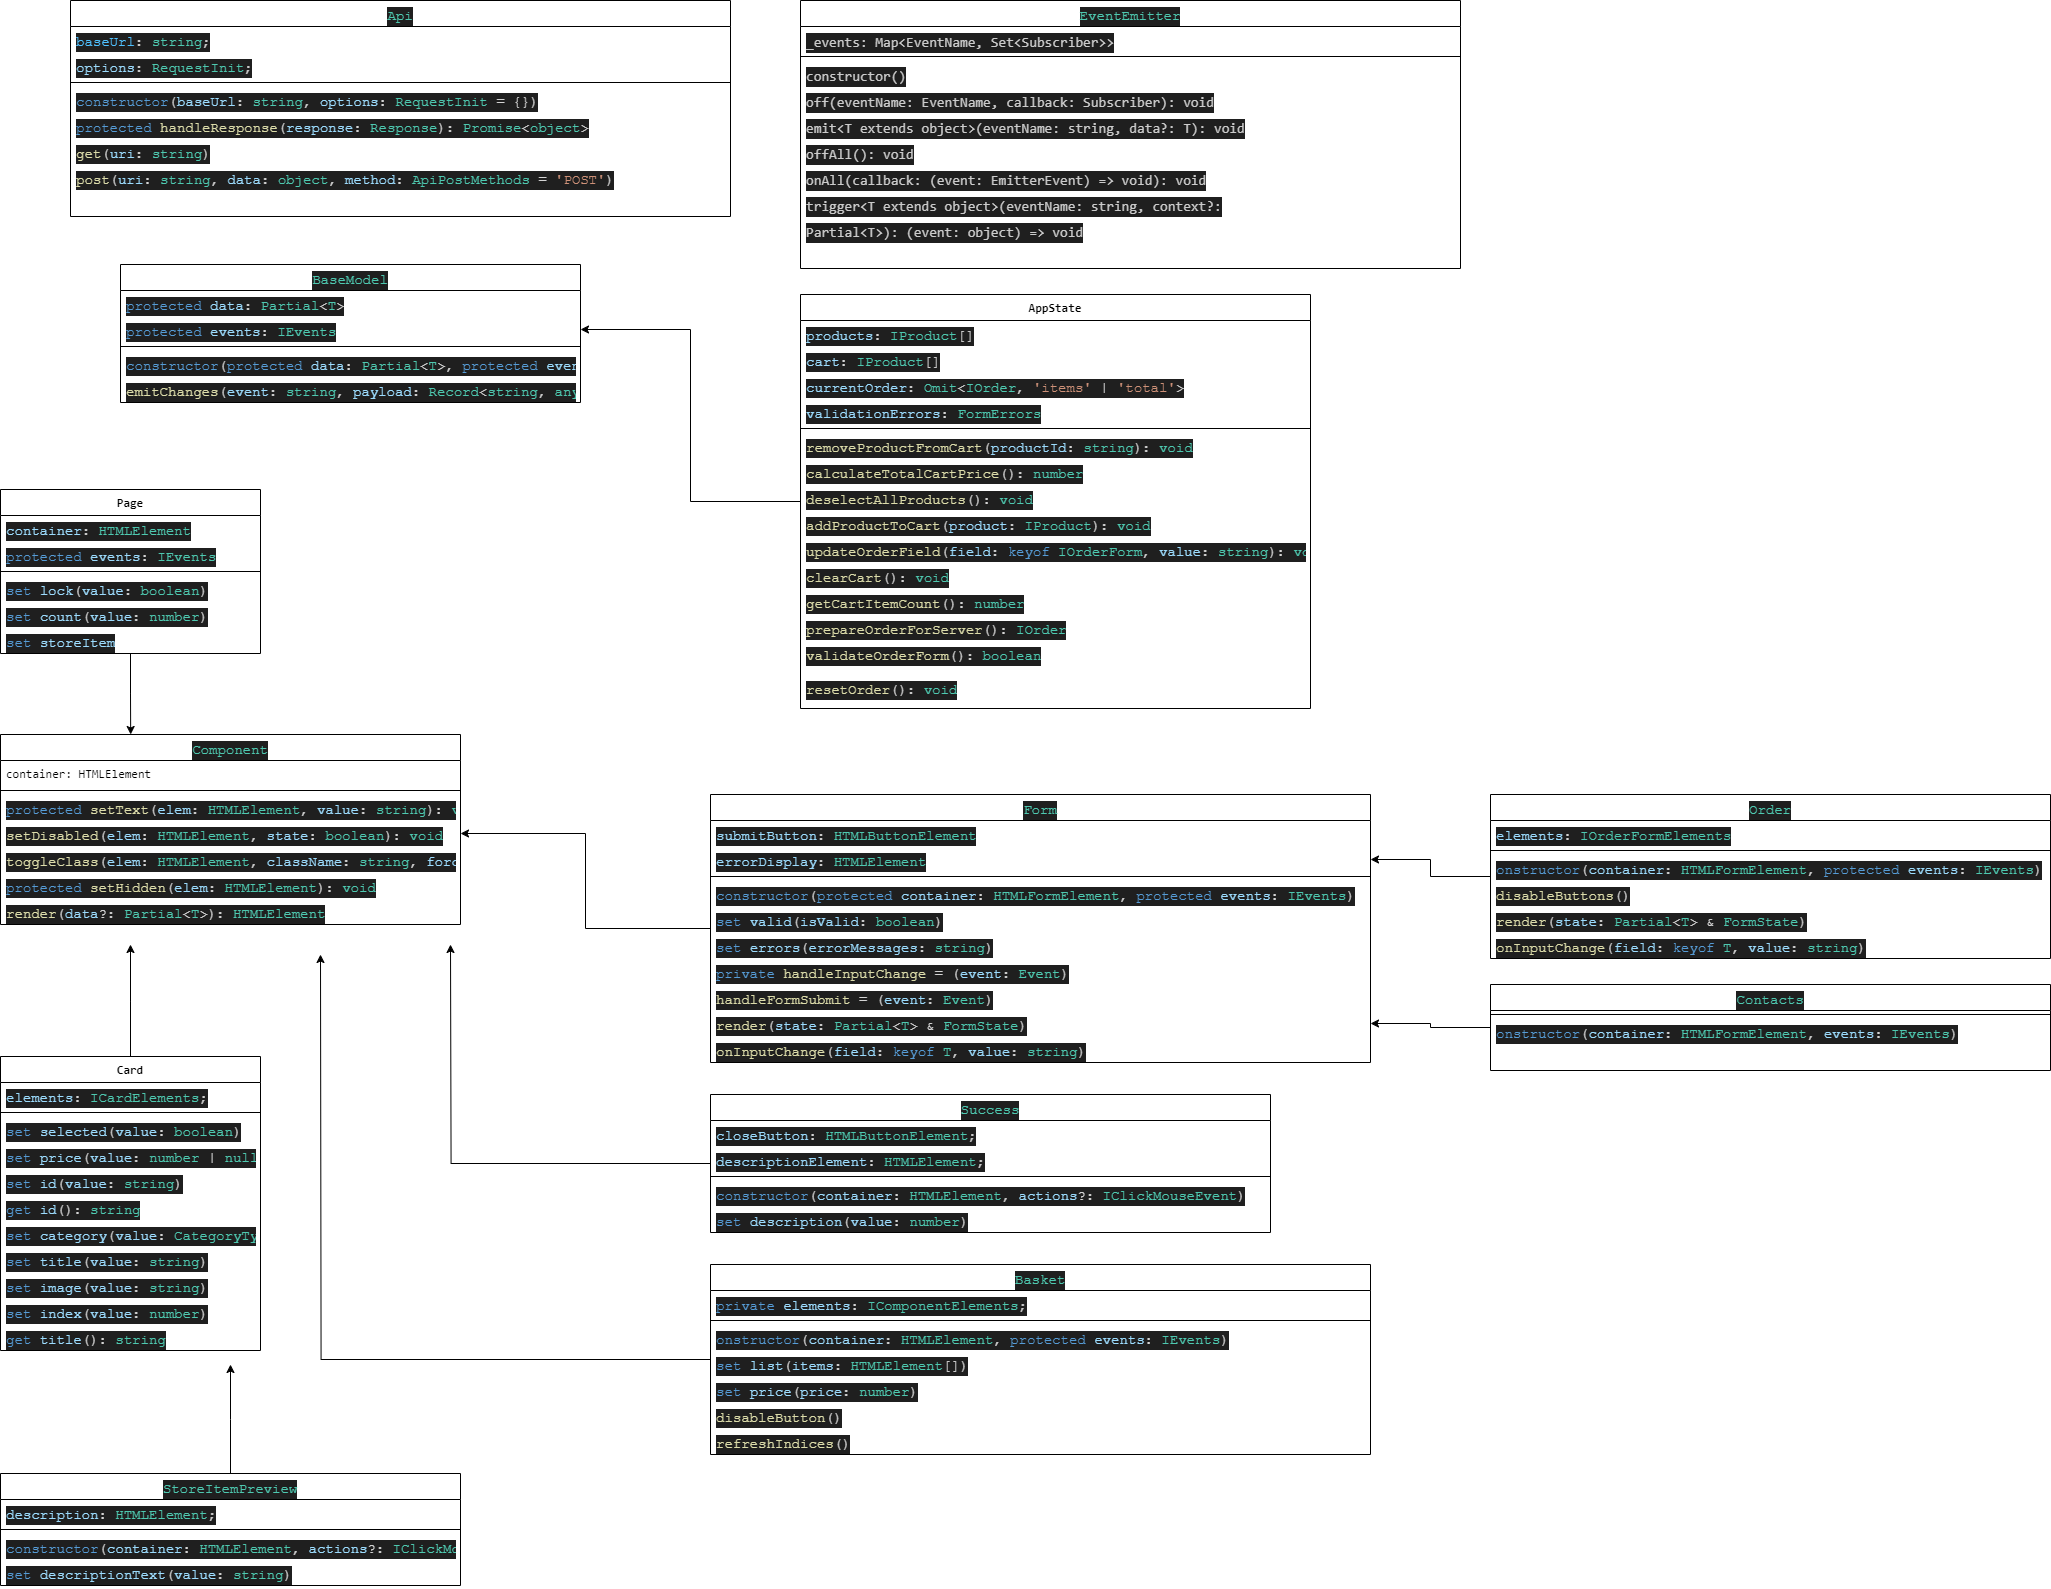
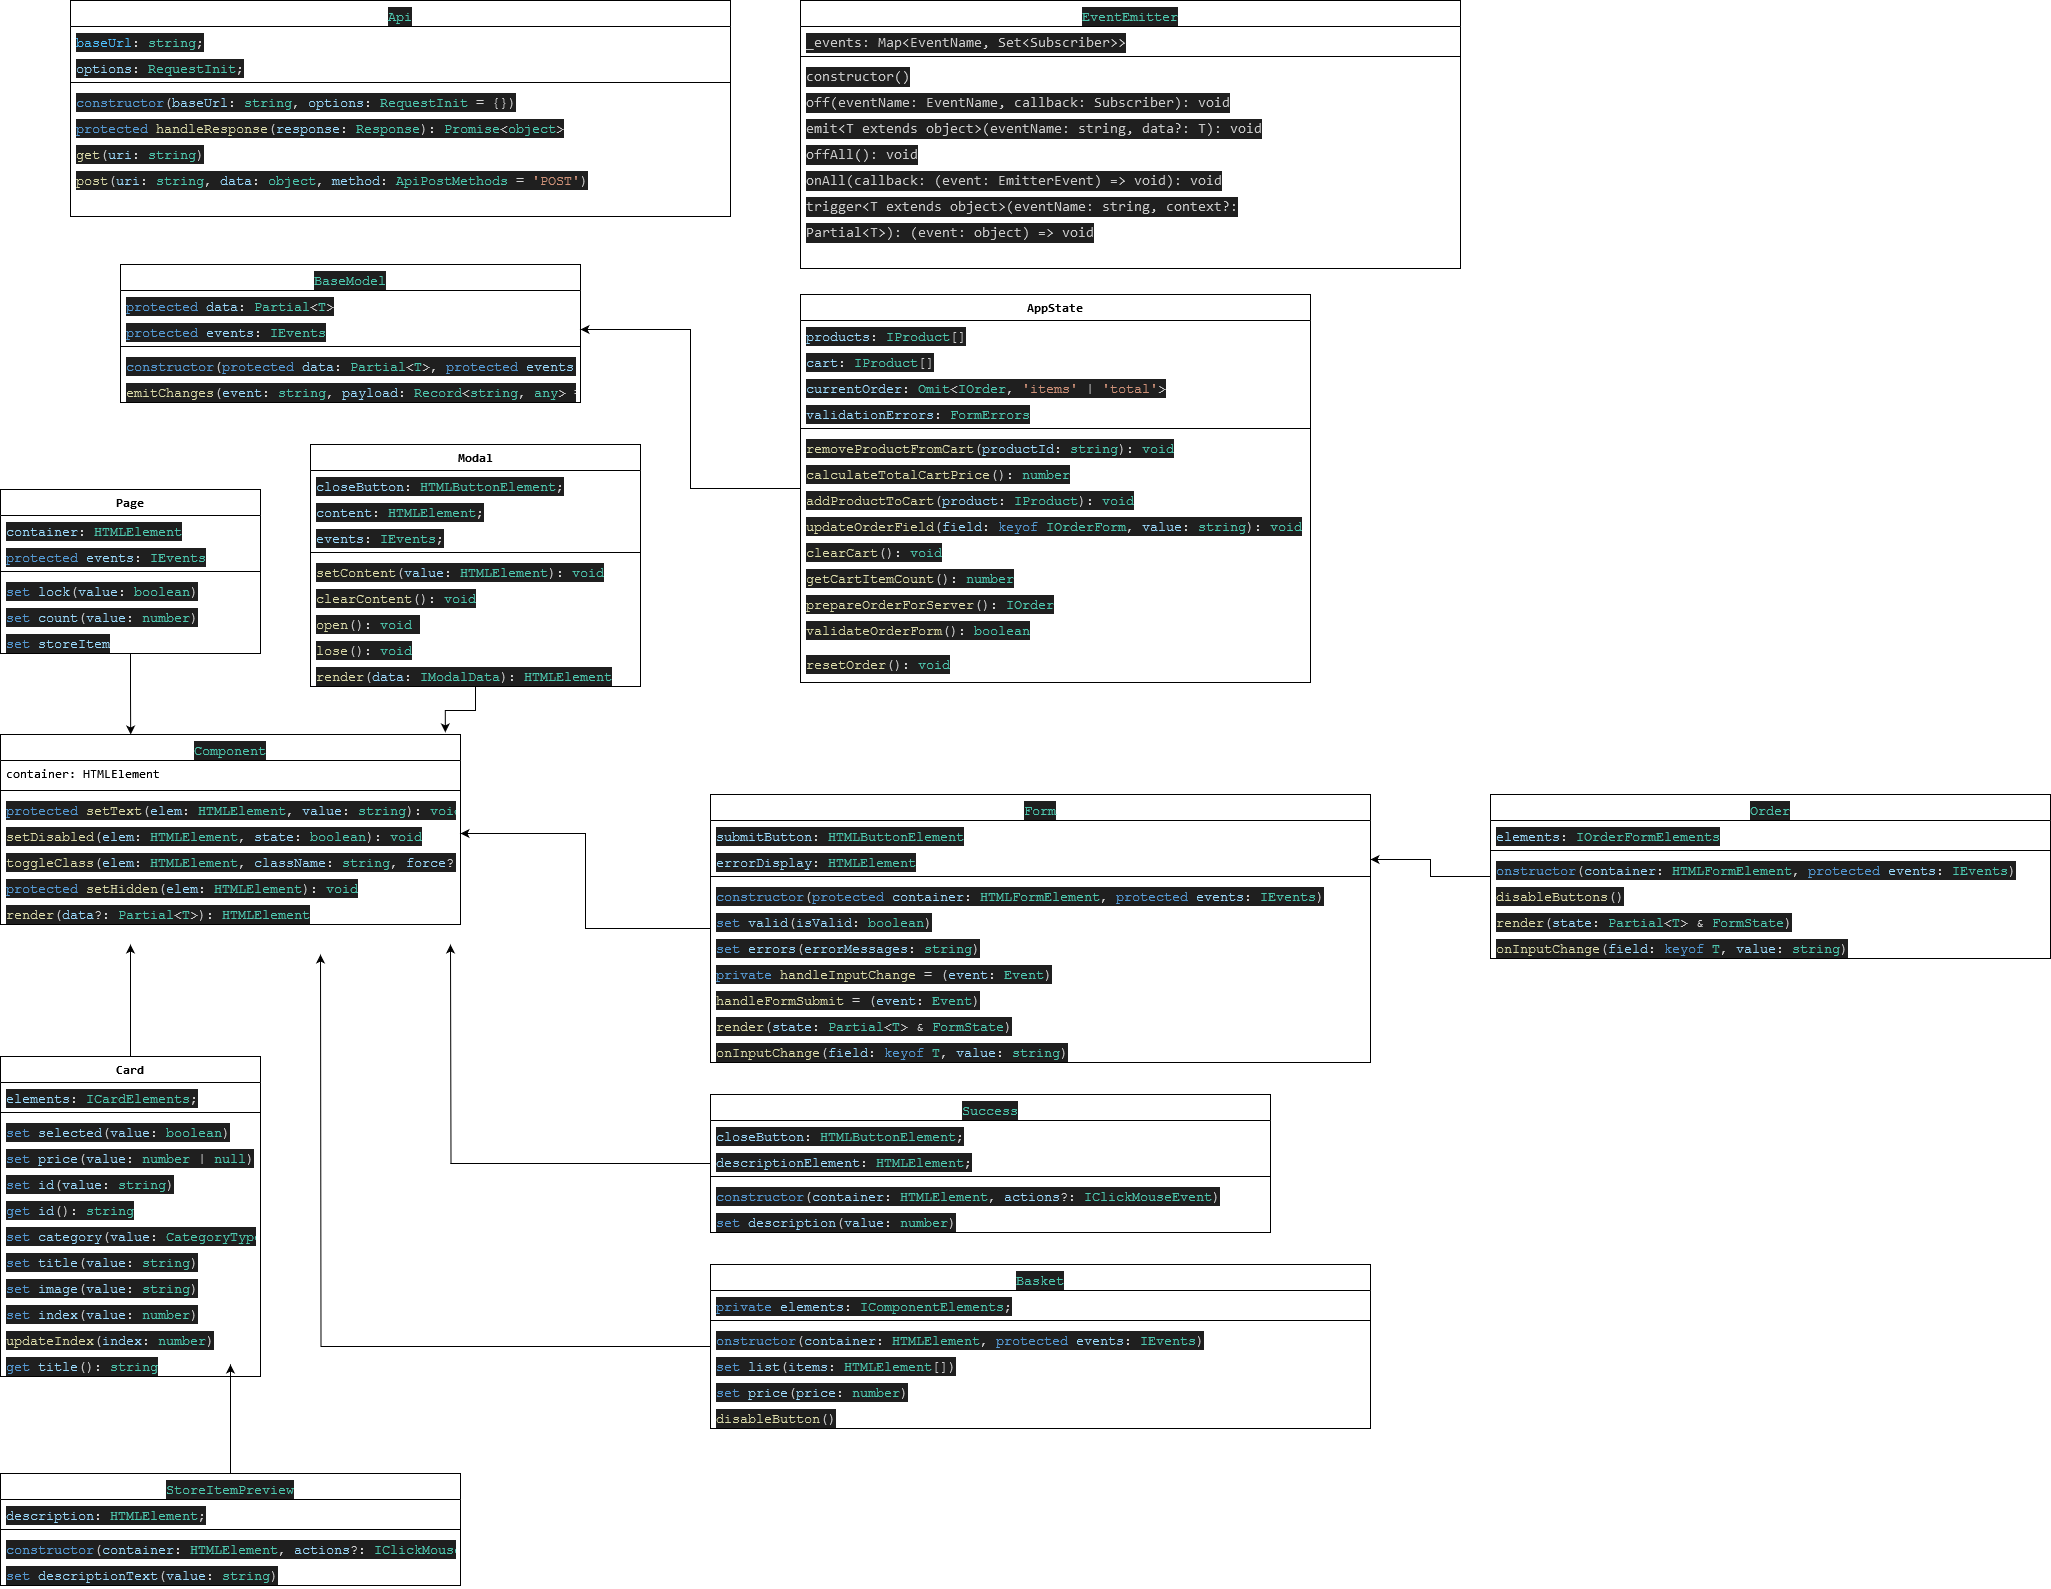
UML and Readme

diff --git a/src/components/Card.ts b/src/components/Card.ts
@@ -99,7 +99,6 @@ export class Card extends Component<ICard> {
     }
   }
 
-
 	set index(value: number) {
 		if (this.elements.indexElement) {
 			let text = value.toString();

diff --git a/README.md b/README.md
@@ -51,20 +51,24 @@ npm run build
 
  **Основные части архитектуры проекта**:
     - **Данные**: Управление состоянием приложения и данными о продуктах, корзине и заказах (`AppState`).
-    - **Отображения**: Компоненты, отображающие продукты, формы, модальные окна и другие элементы интерфейса (`Card`, `StoreItemPreview`, `Page`, `Modal`, `Order`, `Basket`).
+    - **Отображения**: Компоненты, отображающие продукты, формы, модальные окна и другие элементы интерфейса (`Card`, `StoreItemPreview`, `Page`, `Modal`, `Order`, `Basket`, `Form`, `Success`).
     - **Работа с сервером**: Выполнение HTTP-запросов для взаимодействия с сервером (`Api`).
 
 **Взаимодействие частей**:
-    В приложении применен принцип MVP (Model-View-Presenter), который обеспечивает четкое разделение ответственностей между классами Model, View и Presenter.
-    Примеры взаимодействия классов:
 
+    В приложении применен принцип MVP (Model-View-Presenter), который обеспечивает четкое разделение ответственностей между классами Model, View и Presenter.
+   
+
+    В приложении взаимодействие между его частями осуществляется через события, которые генерируются и обрабатываются с помощью механизма обмена сообщениями. Механизм обмена сообщениями, который используется для взаимодействия между частями приложения через события, осуществляется с помощью класса EventEmitter. Этот класс позволяет создавать, генерировать и прослушивать пользовательские события, обеспечивая эффективный механизм коммуникации между различными компонентами приложения. Каждая часть приложения, такая как корзина, форма заказа, карточка товара и другие, является независимым компонентом, который может инициировать события для уведомления других частей о произошедших изменениях или действиях. Например, при добавлении товара в корзину генерируется событие "basket:order", на которое реагирует соответствующий обработчик для открытия модального окна с формой заказа. 
+
+    Примеры взаимодействия классов:
     Пользователь открывает карточку товара:
         Пользователь взаимодействует с интерфейсом, нажимая на карточку товара.
         Класс Card отвечает за отображение карточки товара на странице и реагирует на события пользователя, такие как клики, так как на элементы карточки повешаны слушатели.
-        При клике на карточку товара вызывается метод descriptionText класса StoreItemPreview, который изменяет  описание товара в превью. После клика отображается модальное окно с помощью метода render класса Modal.
+        При клике на карточку товара класс EventEmitter управляет данным событием. При открытии карточки товара модальное окно появляется на экране (modal.render({ content: product.render(...) })) класс Modal. В модальном окне отображается предпросмотр товара с его названием, изображением, ценой и описанием. Пользователь может добавить товар в корзину, кликнув на соответствующую кнопку.
 
     Добавление товара в корзину:
-        Пользователь нажимает на кнопку "Добавить в корзину" на карточке товара.
+      Пользователь нажимает на кнопку "Добавить в корзину" на карточке товара.
       При добавлении товара в корзину  происходит следующее:
 
         В методе handleCardToBasket проверяется, есть ли уже выбранный товар в корзине. Если товара нет в корзине, то он добавляется.
